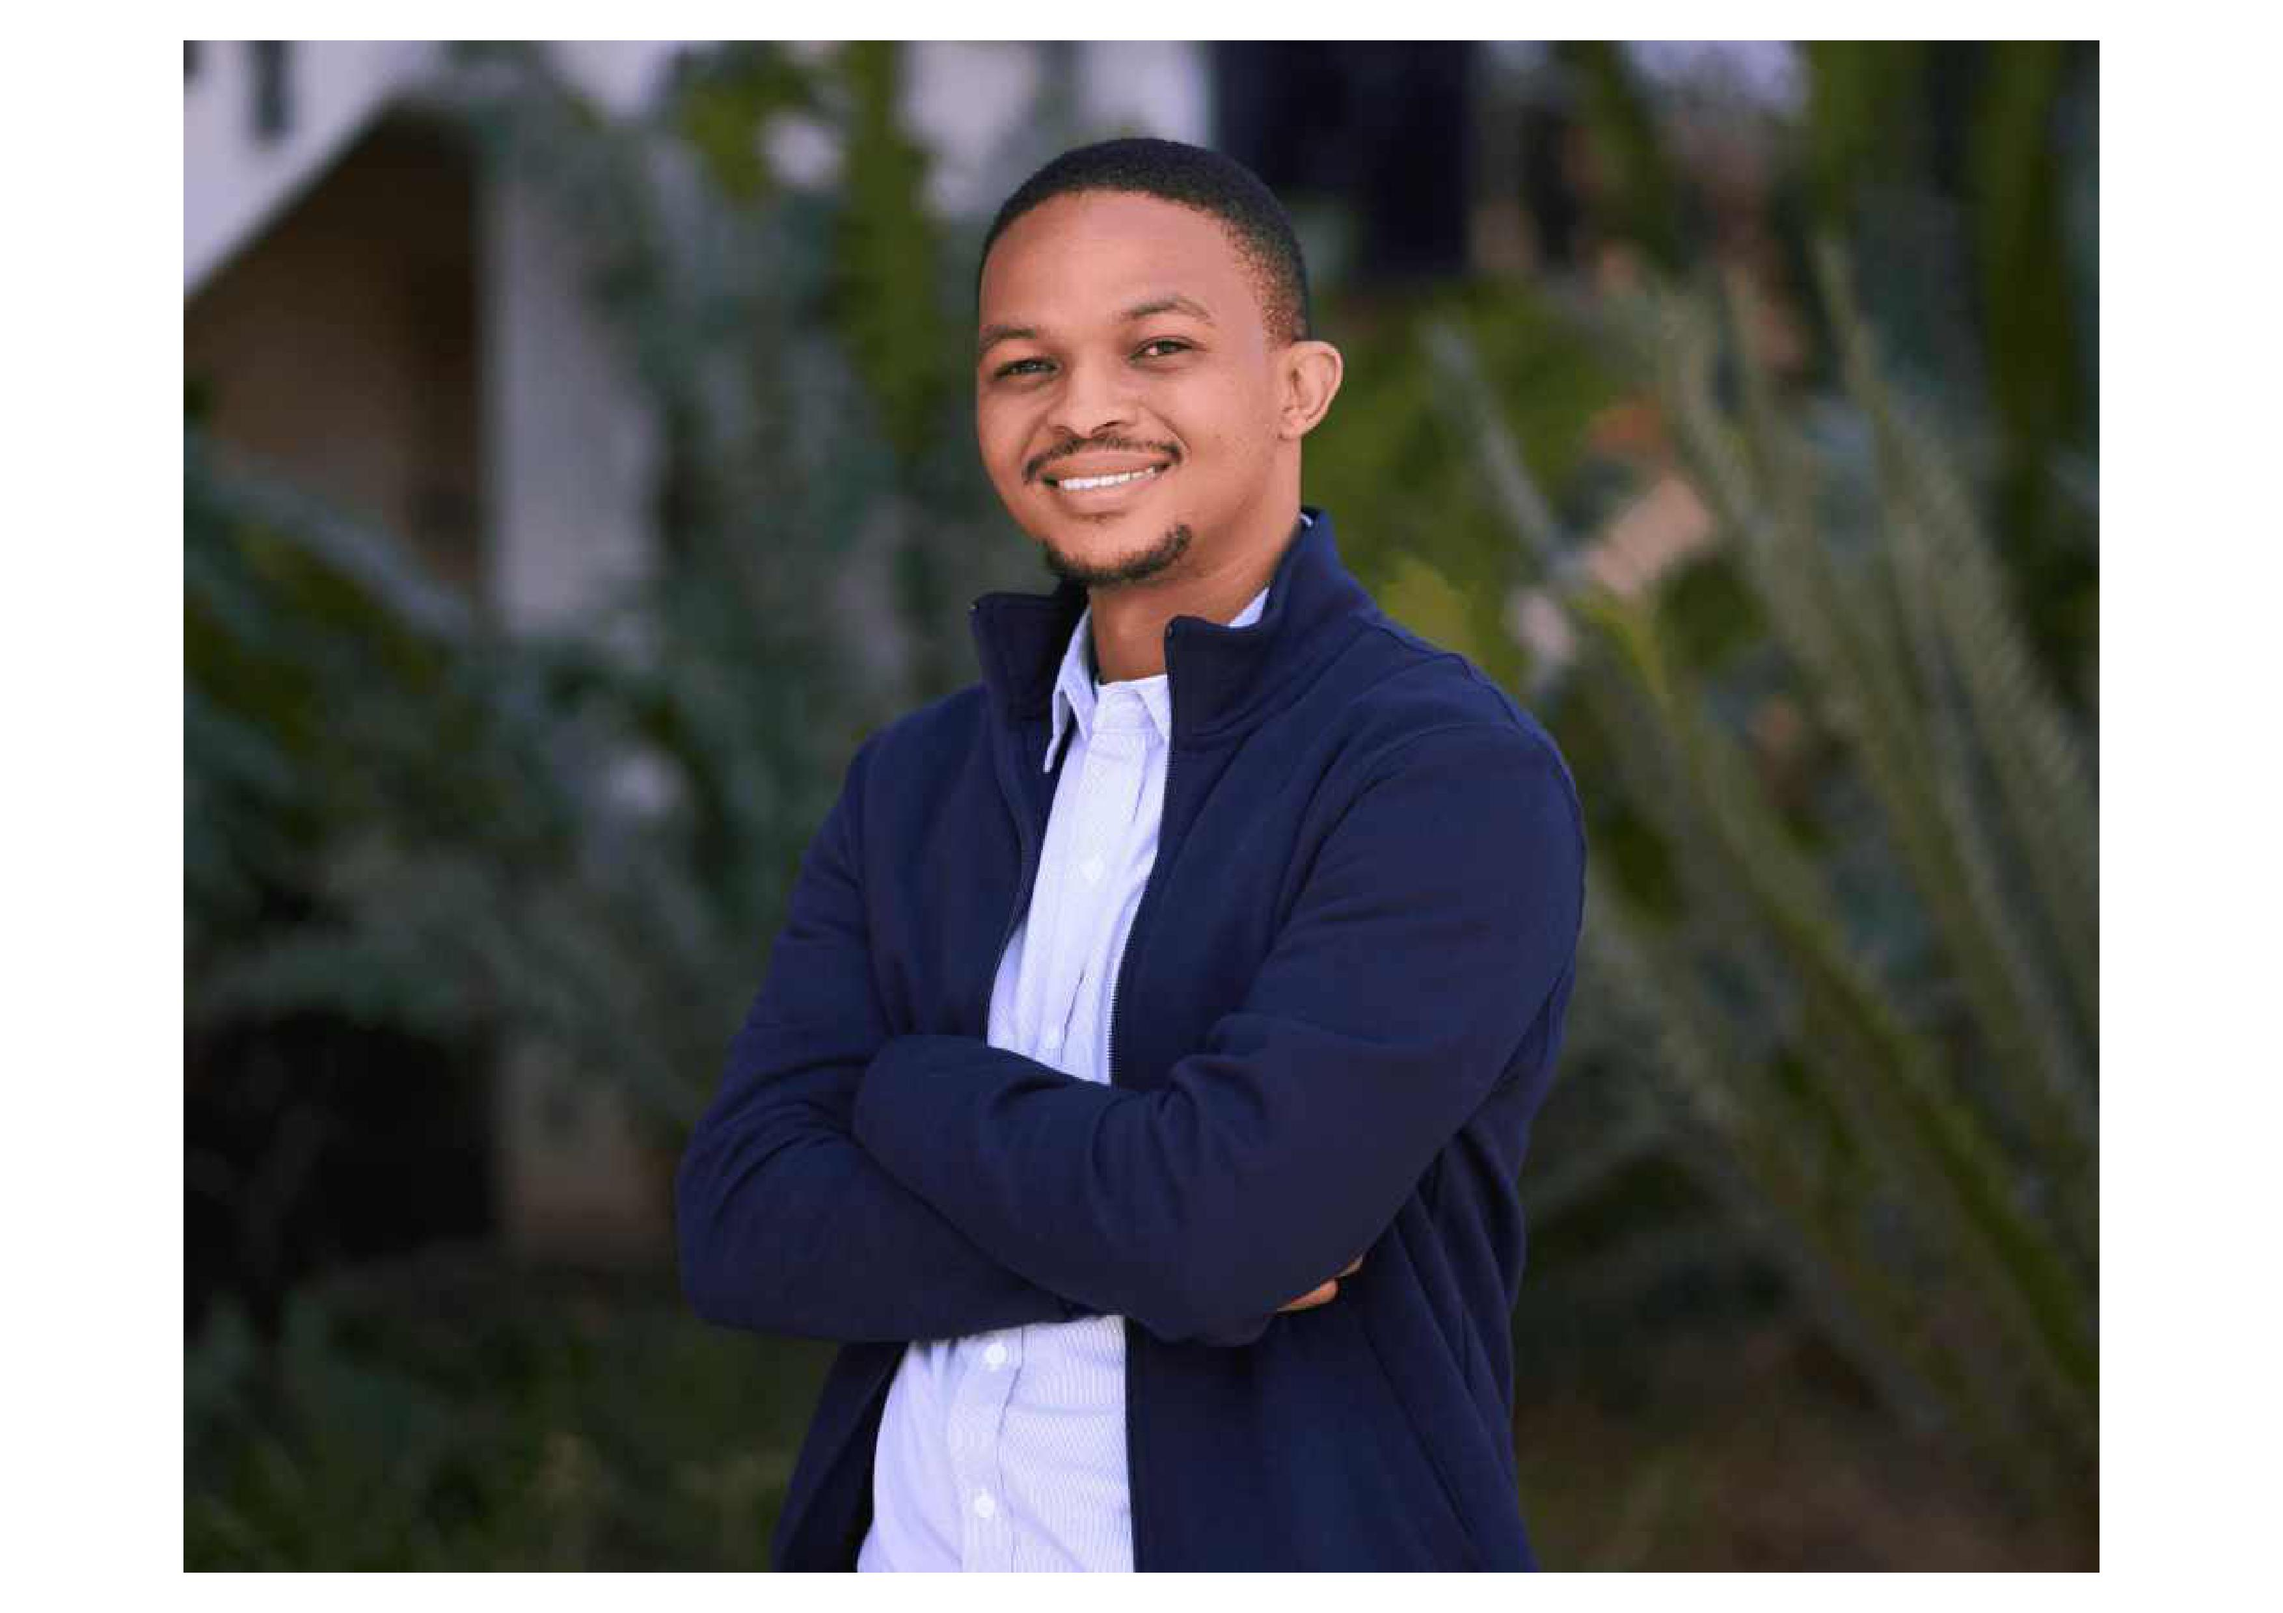
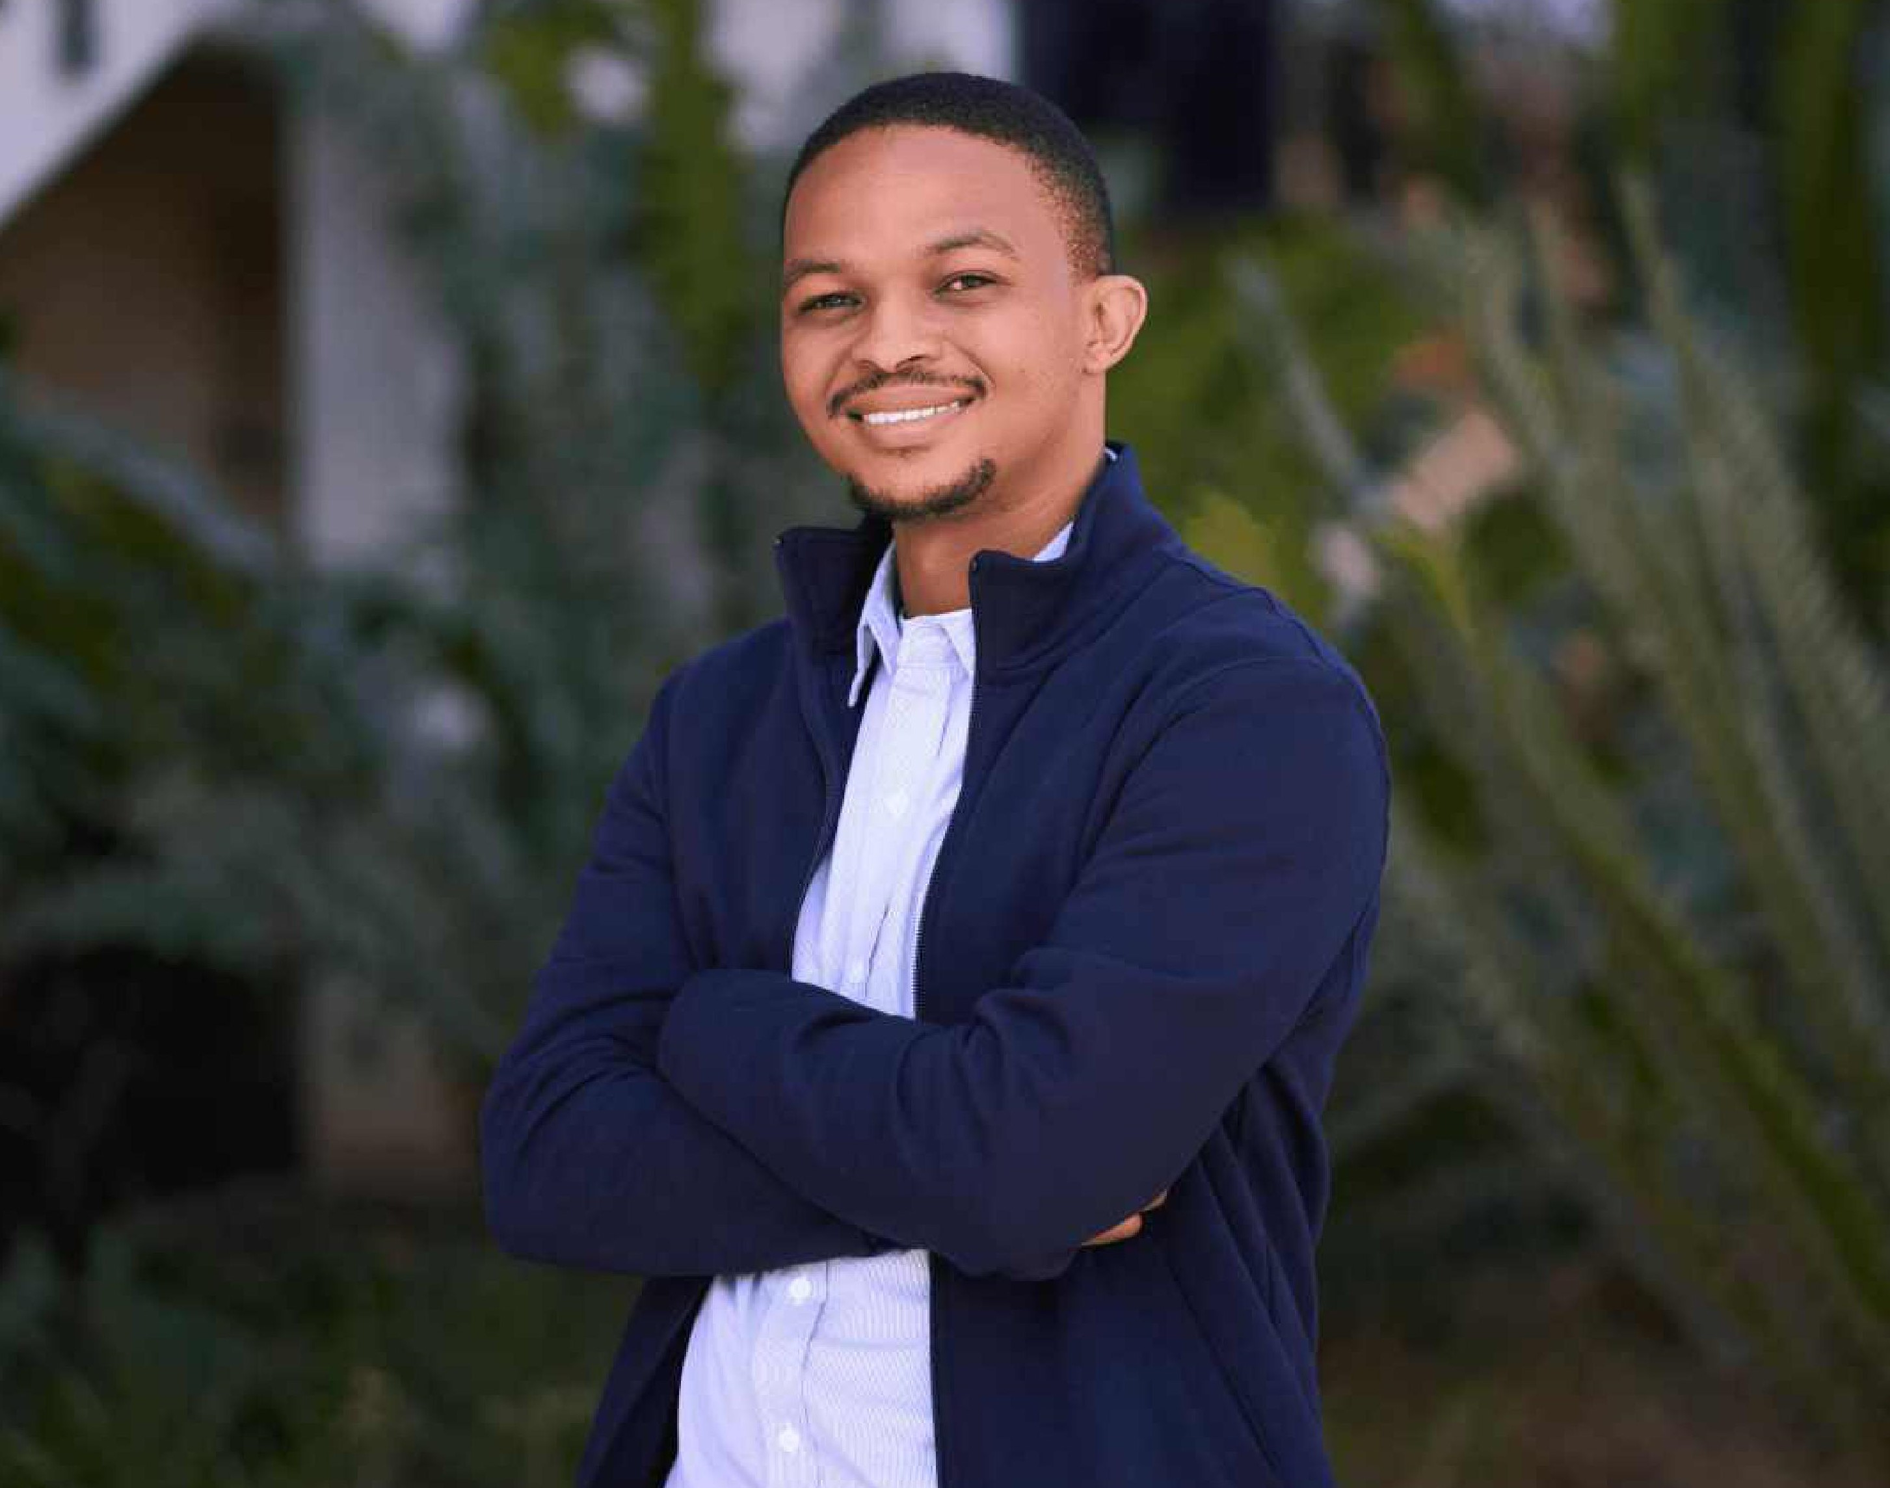
Edited about image

diff --git a/portfolio_app/static/css/styles.css b/portfolio_app/static/css/styles.css
@@ -175,27 +175,32 @@ span {
 
 .about-img img {
     width: 35vw;
-    animation: floatImage 4s ease-in-out infinite;
-    transform: rotate(-2deg);
+    /* Ensure the image is fully visible within the frame */
+    height: auto;
+    /* Apply both rotation and scaling */
+    transform: rotate(2deg) scale(1.2);
+    /* Ensure the image remains centered */
+    transform-origin: center;
 }
 
 @keyframes floatImage {
     0% {
-        transform: rotate(-2deg);
+        transform: rotate(2deg) scale(1.2);
     }
-
     50% {
-        transform: rotate(-2deg);
+        transform: rotate(2deg) scale(1.2) translateY(-2.4rem);
     }
-
     100% {
-        transform: rotate(-2deg);
+        transform: rotate(2deg) scale(1.2);
     }
 }
 
 .round-image {
     border-radius: 50%;
+    /* Ensure overflow is hidden to maintain the round shape */
+    overflow: hidden;
 }
+
 
 .heading {
     text-align: center;

diff --git a/portfolio_app/templates/portfolio/index.html b/portfolio_app/templates/portfolio/index.html
@@ -13,7 +13,7 @@
 
     <!-- custom css -->
     <link rel="stylesheet" href="{% static 'css/styles.css' %}">
-
+    
 </head>
 
 <body>
@@ -56,7 +56,7 @@
     <!-- about section design -->
     <section class="about" id="about">
         <div class="about-img">
-            <img src="{% static 'images/about1.jpg' %}" alt="About Image" class="round-image" width="300" height="400">
+            <img src="{% static 'images/about1.jpg' %}" alt="About Image" class="round-image" width="300" height="400" class="round-image" width="300" height="400">
         </div>
 
         <div class="about-content">
